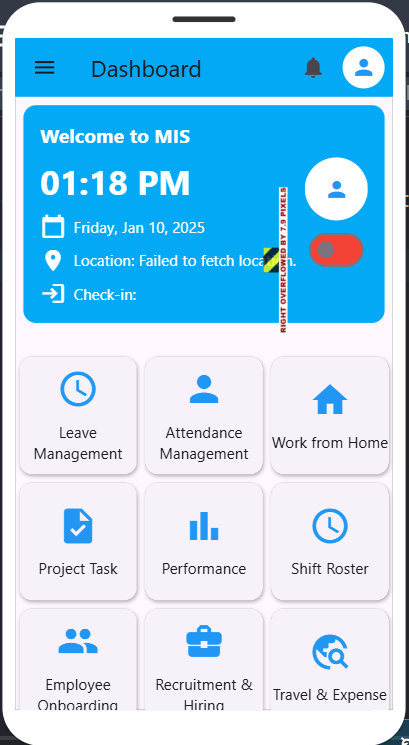
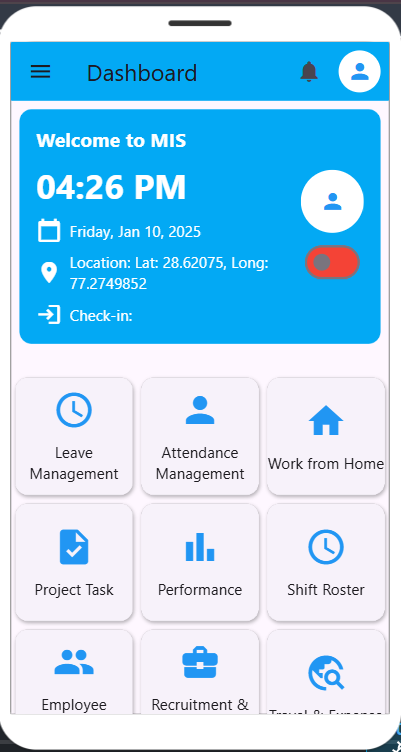
screenshots

Changed region(s): [[0.0, 0.0, 1.0, 1.0], [0.3292, 0.494, 0.3591, 0.5248]]

diff --git a/lib/views/dashboard_screen.dart b/lib/views/dashboard_screen.dart
@@ -14,7 +14,8 @@ class DashboardScreen extends StatefulWidget {
 }
 
 class _DashboardScreenState extends State<DashboardScreen> {
-  String _location = 'Fetching Address...';
+  String _location = 'Fetching Address';
+  String cTime = '';
 
   @override
   void initState() {
@@ -34,52 +35,6 @@ class _DashboardScreenState extends State<DashboardScreen> {
   }
 
   // Fetch the current location
-  // Future<void> _getCurrentLocation() async {
-  //   try {
-  //     // Check for location permissions
-  //     bool serviceEnabled = await Geolocator.isLocationServiceEnabled();
-  //     if (!serviceEnabled) {
-  //       setState(() {
-  //         _location = 'Location services are disabled.';
-  //       });
-  //       return;
-  //     }
-
-  //     LocationPermission permission = await Geolocator.checkPermission();
-  //     if (permission == LocationPermission.denied) {
-  //       permission = await Geolocator.requestPermission();
-  //       if (permission == LocationPermission.denied) {
-  //         setState(() {
-  //           _location = 'Location permissions are denied.';
-  //         });
-  //         return;
-  //       }
-  //     }
-
-  //     if (permission == LocationPermission.deniedForever) {
-  //       setState(() {
-  //         _location = 'Location permissions are permanently denied.';
-  //       });
-  //       return;
-  //     }
-
-  //     // Get the current position
-  //     Position position = await Geolocator.getCurrentPosition(
-  //       desiredAccuracy: LocationAccuracy.high,
-  //     );
-
-  //     // Update the location string
-  //     setState(() {
-  //       _location = 'Lat: ${position.latitude}, Long: ${position.longitude}';
-  //     });
-  //   } catch (e) {
-  //     setState(() {
-  //       _location = 'Failed to fetch location.';
-  //     });
-  //   }
-  // }
-  //
-
   Future<void> _getCurrentLocation() async {
     try {
       // Check for location permissions
@@ -114,20 +69,9 @@ class _DashboardScreenState extends State<DashboardScreen> {
         desiredAccuracy: LocationAccuracy.high,
       );
 
-      // Fetch the address based on latitude and longitude
-      List<Placemark> placemarks = await placemarkFromCoordinates(
-        position.latitude,
-        position.longitude,
-      );
-
-      // Get the first placemark (most relevant)
-      Placemark place = placemarks[0];
-      String address =
-          '${place.name}, ${place.locality}, ${place.administrativeArea}, ${place.country}';
-
-      // Update the location string with the address
+      // Update the location string
       setState(() {
-        _location = address; // Display the address instead of coordinates
+        _location = 'Lat: ${position.latitude}, Long: ${position.longitude}';
       });
     } catch (e) {
       setState(() {
@@ -135,6 +79,62 @@ class _DashboardScreenState extends State<DashboardScreen> {
       });
     }
   }
+
+  // Future<void> _getCurrentLocation() async {
+  //   try {
+  //     // Check for location permissions
+  //     bool serviceEnabled = await Geolocator.isLocationServiceEnabled();
+  //     if (!serviceEnabled) {
+  //       setState(() {
+  //         _location = 'Location services are disabled.';
+  //       });
+  //       return;
+  //     }
+
+  //     LocationPermission permission = await Geolocator.checkPermission();
+  //     if (permission == LocationPermission.denied) {
+  //       permission = await Geolocator.requestPermission();
+  //       if (permission == LocationPermission.denied) {
+  //         setState(() {
+  //           _location = 'Location permissions are denied.';
+  //         });
+  //         return;
+  //       }
+  //     }
+
+  //     if (permission == LocationPermission.deniedForever) {
+  //       setState(() {
+  //         _location = 'Location permissions are permanently denied.';
+  //       });
+  //       return;
+  //     }
+
+  //     // Get the current position
+  //     Position position = await Geolocator.getCurrentPosition(
+  //       desiredAccuracy: LocationAccuracy.high,
+  //     );
+
+  //     // Fetch the address based on latitude and longitude
+  //     List<Placemark> placemarks = await placemarkFromCoordinates(
+  //       position.latitude,
+  //       position.longitude,
+  //     );
+
+  //     // Get the first placemark (most relevant)
+  //     Placemark place = placemarks[0];
+  //     String address =
+  //         '${place.name}, ${place.locality}, ${place.administrativeArea}, ${place.country}';
+
+  //     // Update the location string with the address
+  //     setState(() {
+  //       _location = address; // Display the address instead of coordinates
+  //     });
+  //   } catch (e) {
+  //     setState(() {
+  //       _location = 'Failed to fetch location';
+  //     });
+  //   }
+  // }
 
   @override
   Widget build(BuildContext context) {
@@ -240,20 +240,22 @@ class _DashboardScreenState extends State<DashboardScreen> {
                               const Icon(Icons.location_on,
                                   color: Colors.white),
                               const SizedBox(width: 8),
-                              Text(
-                                'Location: $_location', // Dynamic location
-                                style: const TextStyle(color: Colors.white),
+                              Flexible(
+                                child: Text(
+                                  'Location: $_location', // Dynamic location
+                                  style: const TextStyle(color: Colors.white),
+                                ),
                               ),
                             ],
                           ),
                           const SizedBox(height: 8),
-                          const Row(
+                          Row(
                             children: [
-                              Icon(Icons.login, color: Colors.white),
-                              SizedBox(width: 8),
+                              const Icon(Icons.login, color: Colors.white),
+                              const SizedBox(width: 8),
                               Text(
-                                'Check-in:',
-                                style: TextStyle(color: Colors.white),
+                                'Check-in: $cTime',
+                                style: const TextStyle(color: Colors.white),
                               ),
                             ],
                           ),
@@ -308,6 +310,11 @@ class _DashboardScreenState extends State<DashboardScreen> {
                                                 ),
                                               ),
                                             );
+
+                                            setState(() {
+                                              cTime =
+                                                  checkInDetails['checkInTime'];
+                                            });
                                           } else {
                                             throw Exception('Check-in failed');
                                           }
